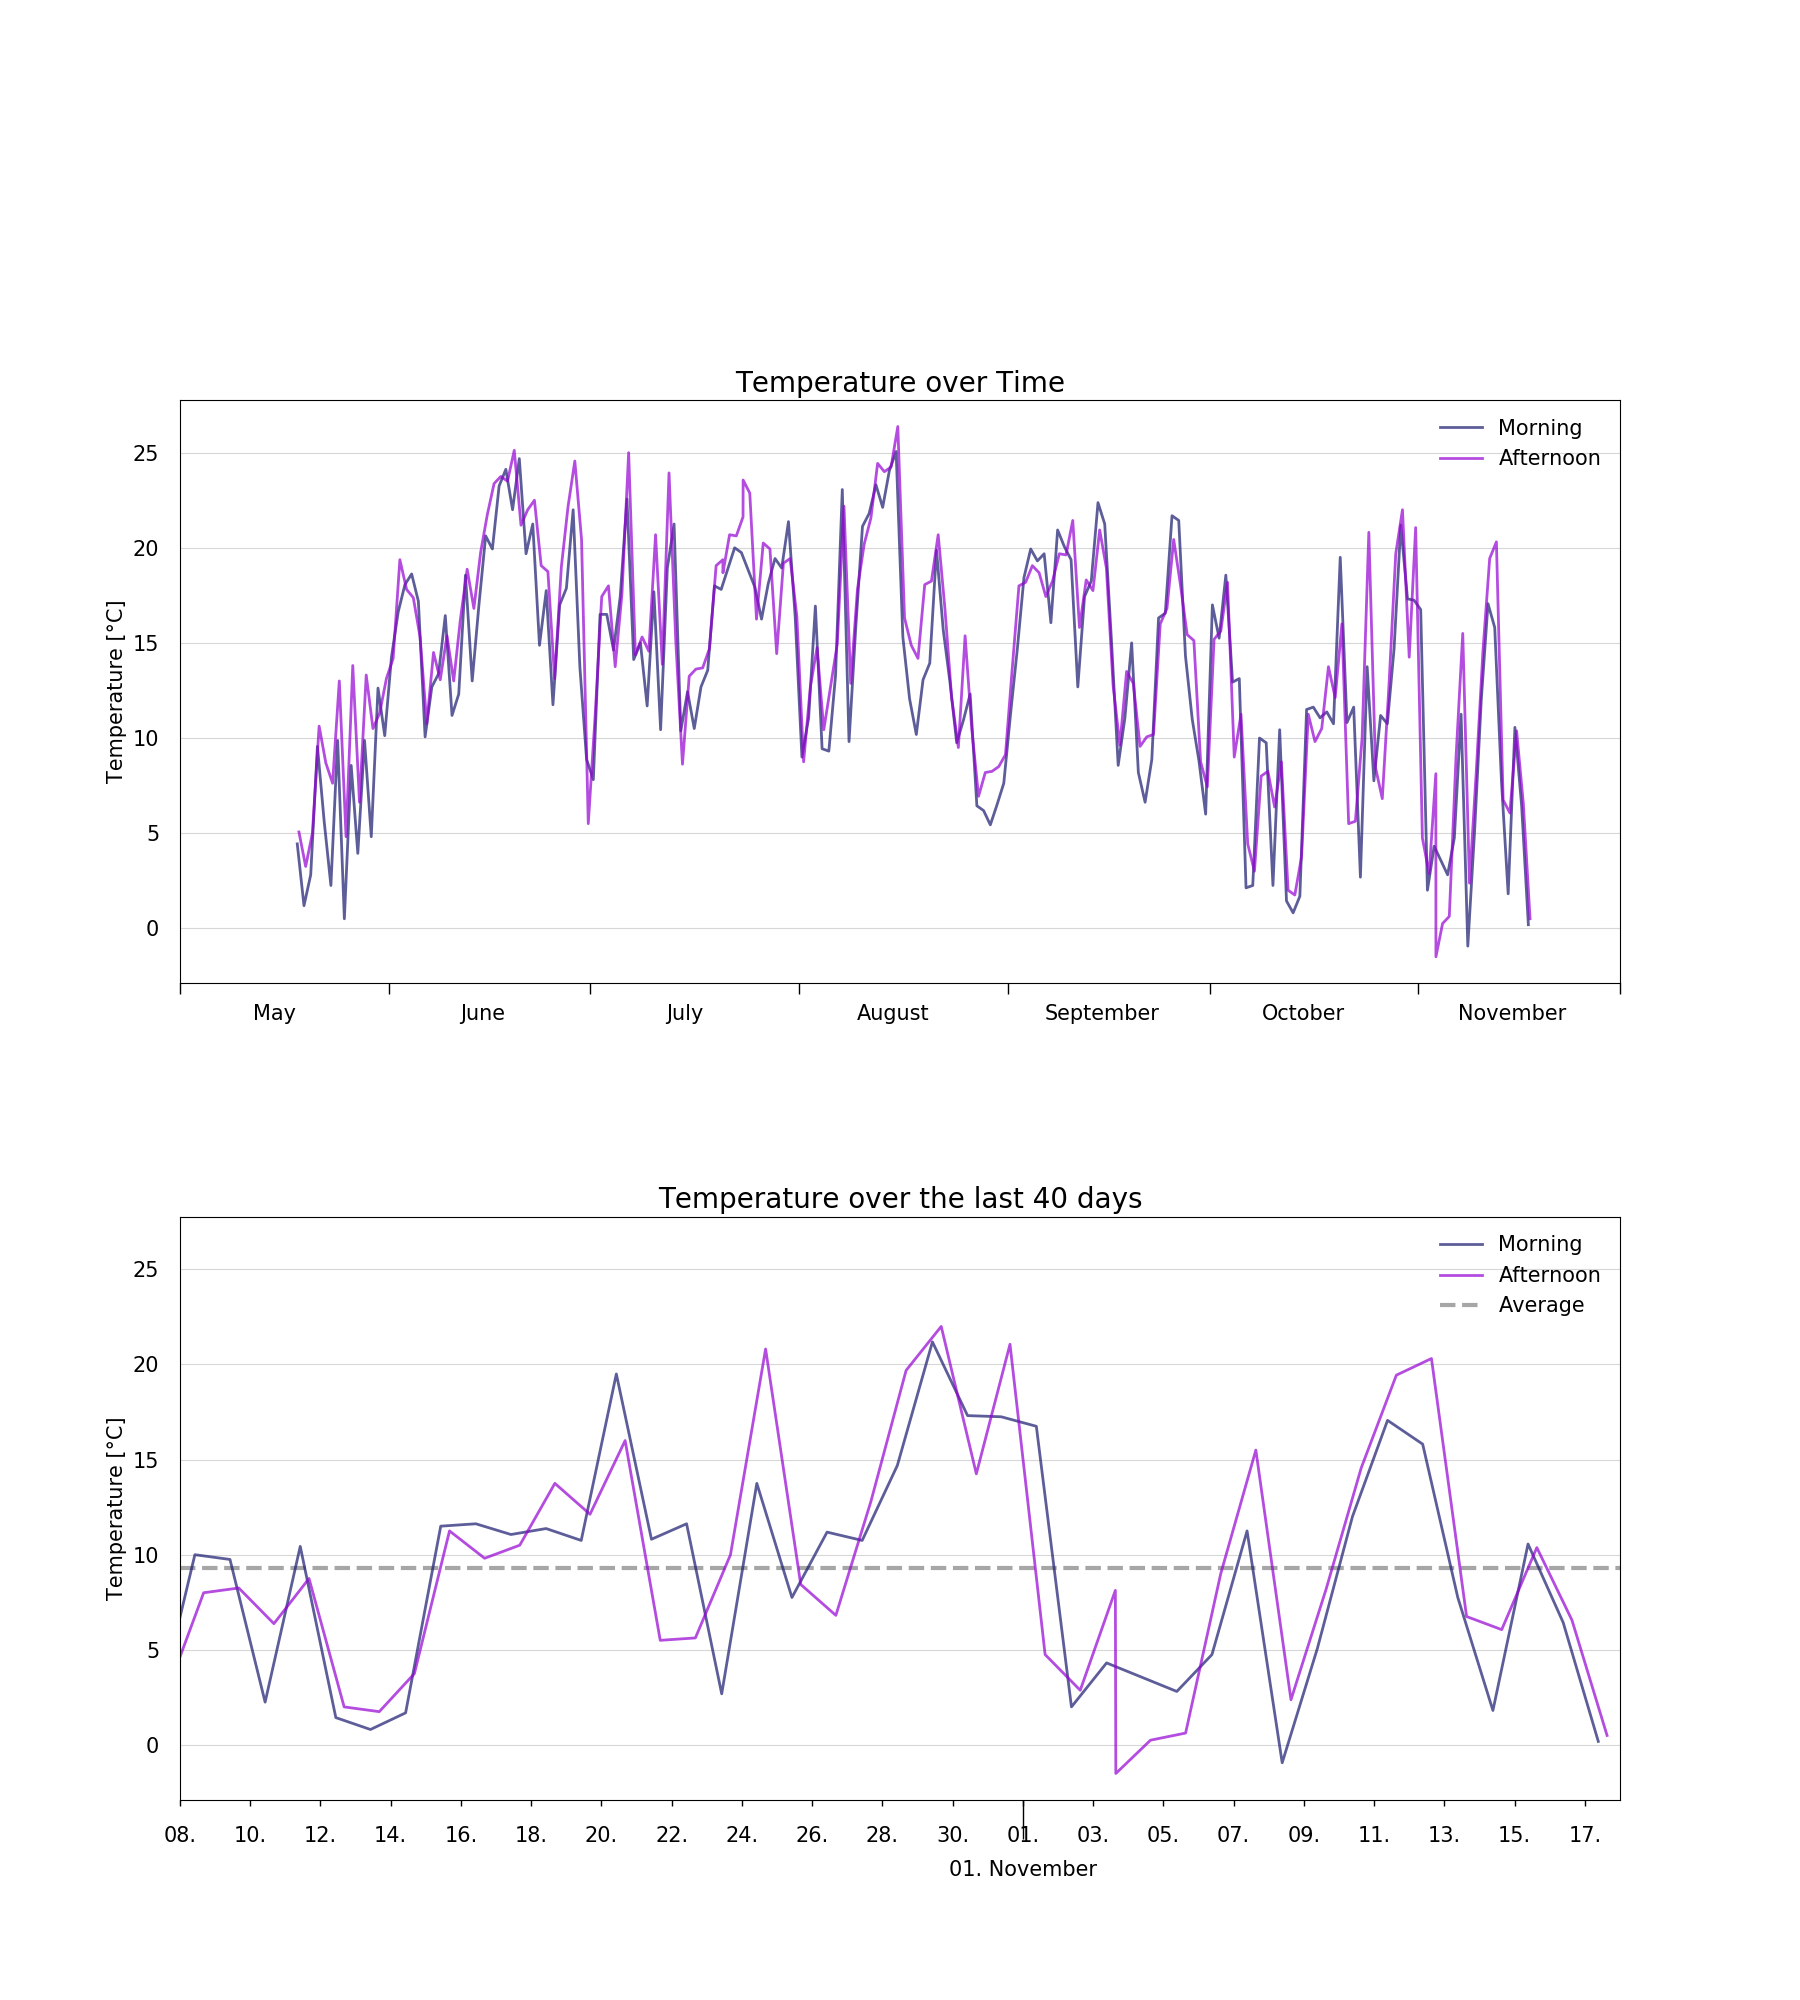
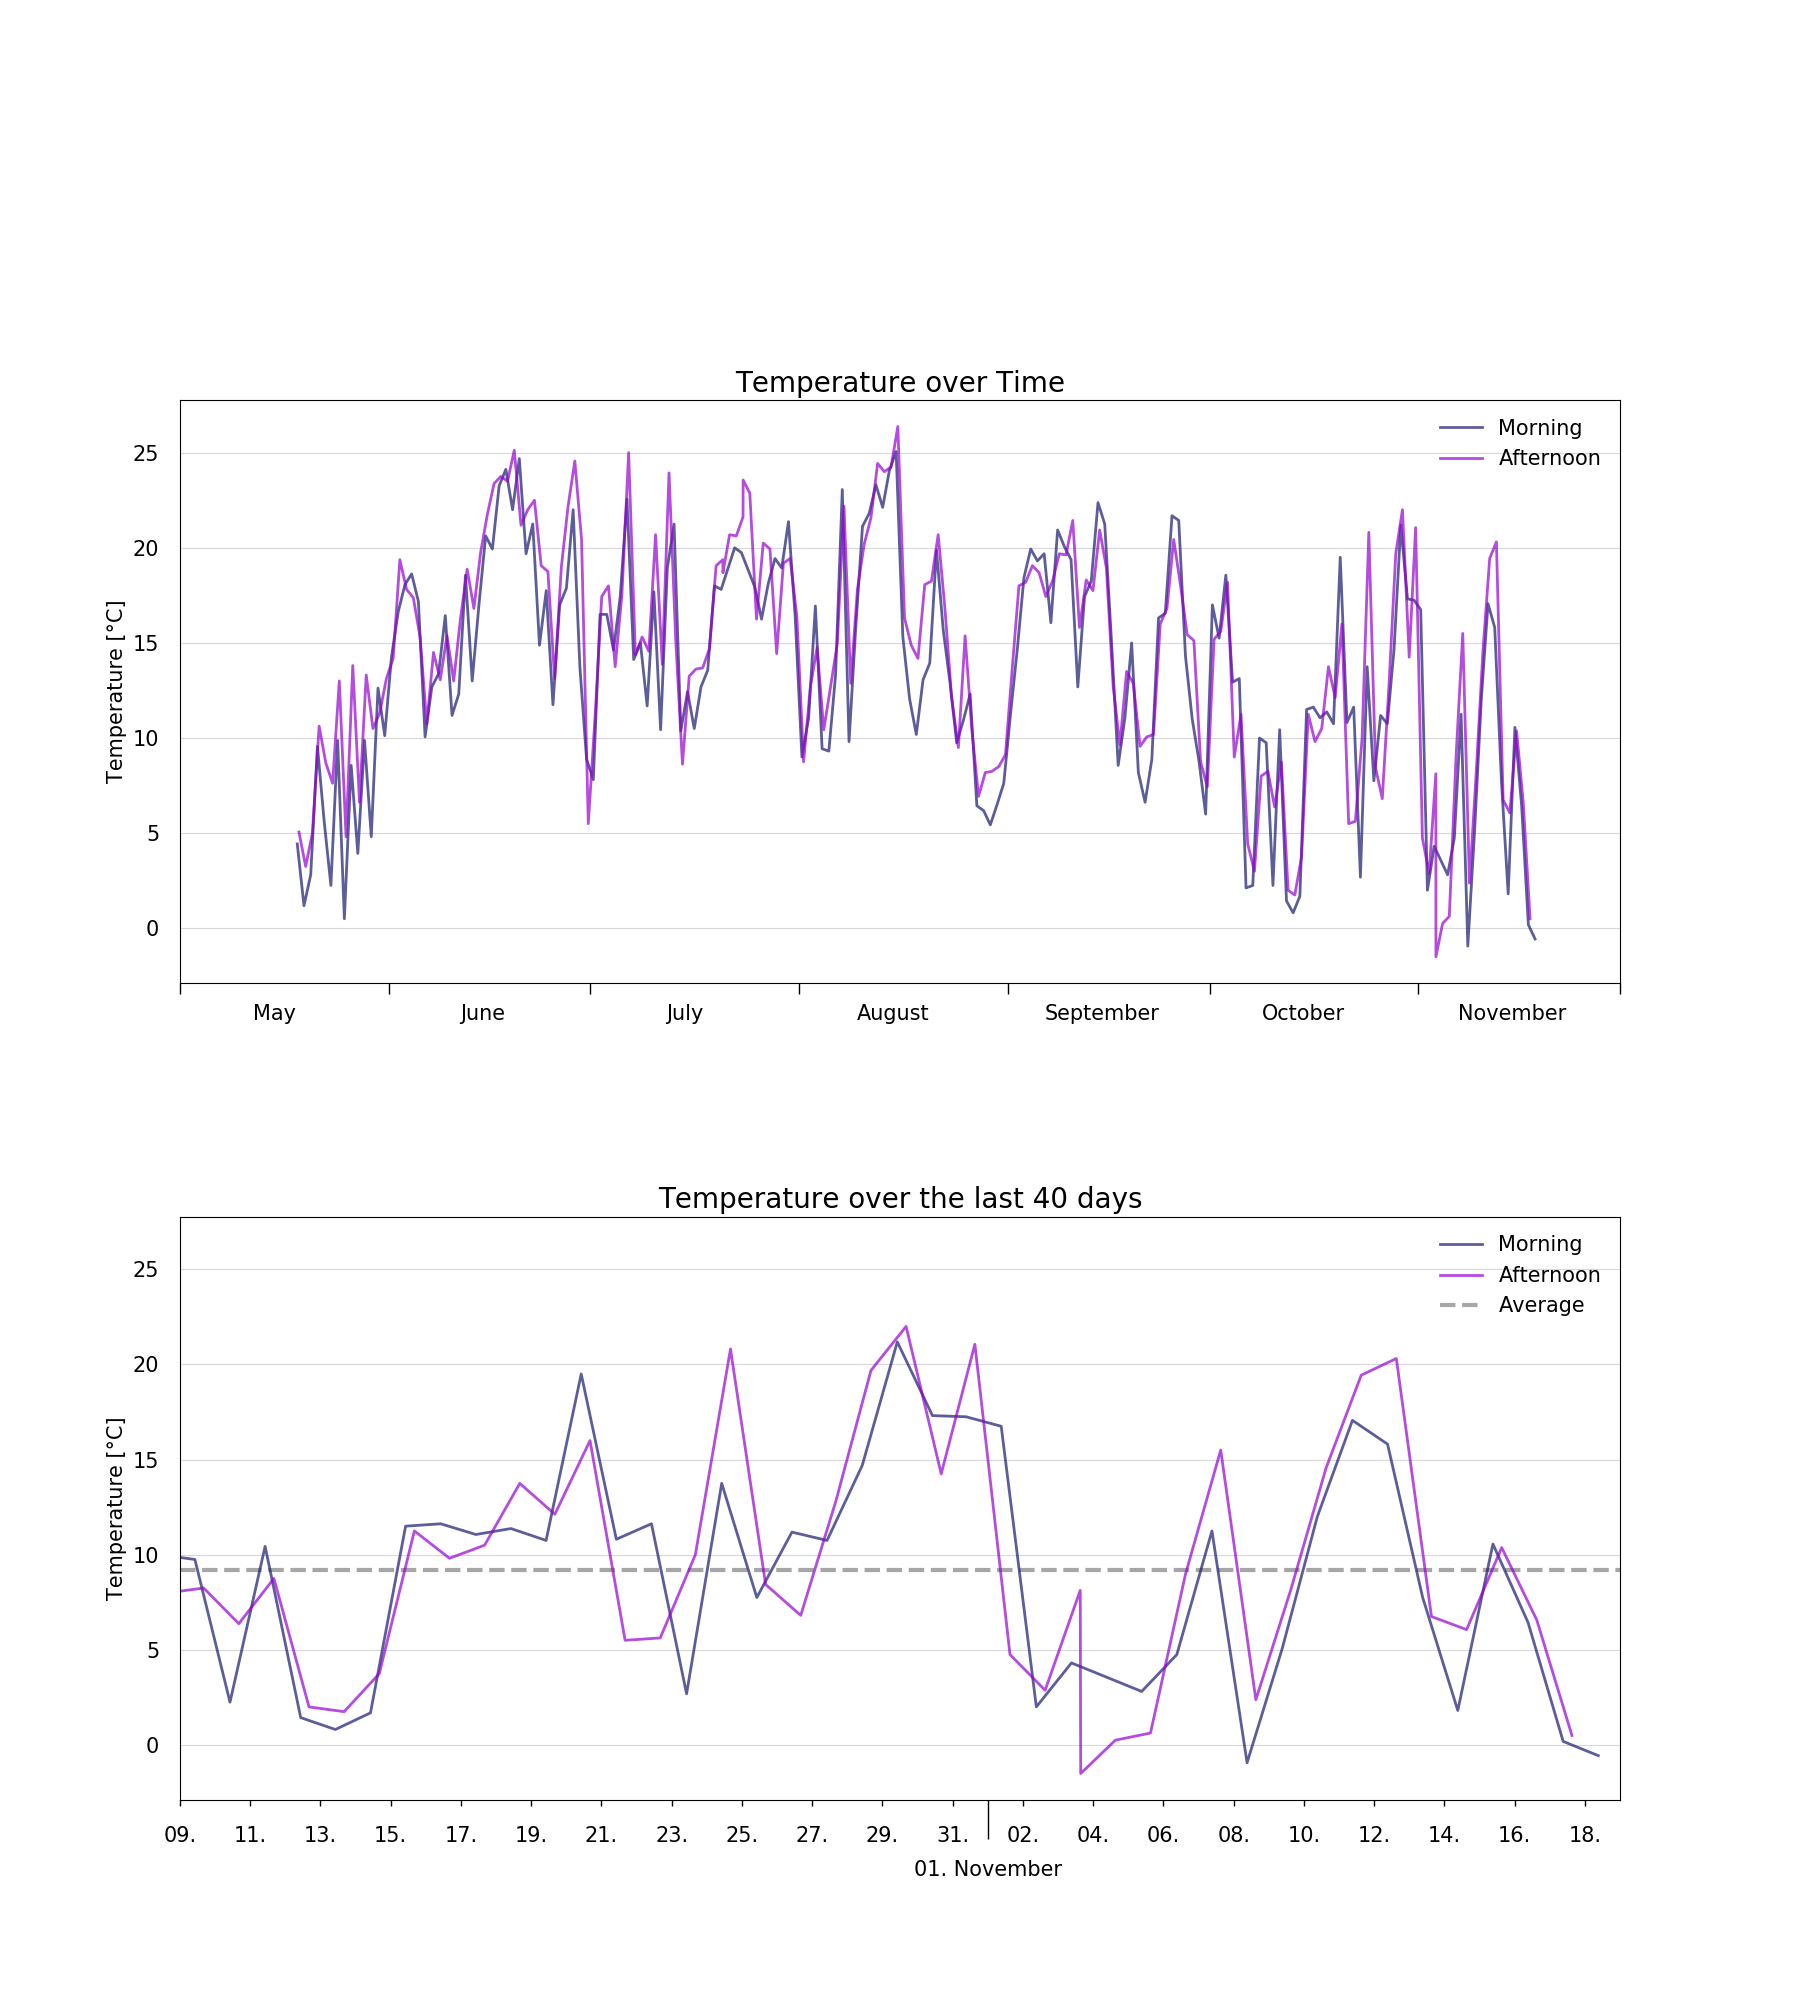
I'm a bot beep boop

Changed region(s): [[0.0933, 0.651, 0.6533, 0.899], [0.6533, 0.682, 0.9022, 0.868], [0.5289, 0.93, 0.5911, 0.961]]

diff --git a/resources/huette.md b/resources/huette.md
@@ -6,13 +6,13 @@ image: '/assets/img/'
 description: 'Live image from the Austrian alps'
 twitter_text: ' '
 ---
-## Latest image from 17 November 2021 at 15:10
+## Latest image from 18 November 2021 at  9:10
 <div class="huette">
   <div class="huette-image">
     <img src="{{ "/assets/img/huette.jpg" | prepend: site.baseurl }}">
   </div>
   <div class="huette-text">
-        <h2>Current Temperature: 0.5°C</h2>
+        <h2>Current Temperature: -0.562°C</h2>
         <p>A solar powered raspberry pi left alone in the wild is sending daily images and temperature data to this website. It should give you an impression about the current weather in the "Brixental".</p>
 
   </div>

diff --git a/rpi-script/huette.md b/rpi-script/huette.md
@@ -6,13 +6,13 @@ image: '/assets/img/'
 description: 'Live image from the Austrian alps'
 twitter_text: ' '
 ---
-## Latest image from 17 November 2021 at 15:10
+## Latest image from 18 November 2021 at  9:10
 <div class="huette">
   <div class="huette-image">
     <img src="{{ "/assets/img/huette.jpg" | prepend: site.baseurl }}">
   </div>
   <div class="huette-text">
-        <h2>Current Temperature: 0.5°C</h2>
+        <h2>Current Temperature: -0.562°C</h2>
         <p>A solar powered raspberry pi left alone in the wild is sending daily images and temperature data to this website. It should give you an impression about the current weather in the "Brixental".</p>
 
   </div>
